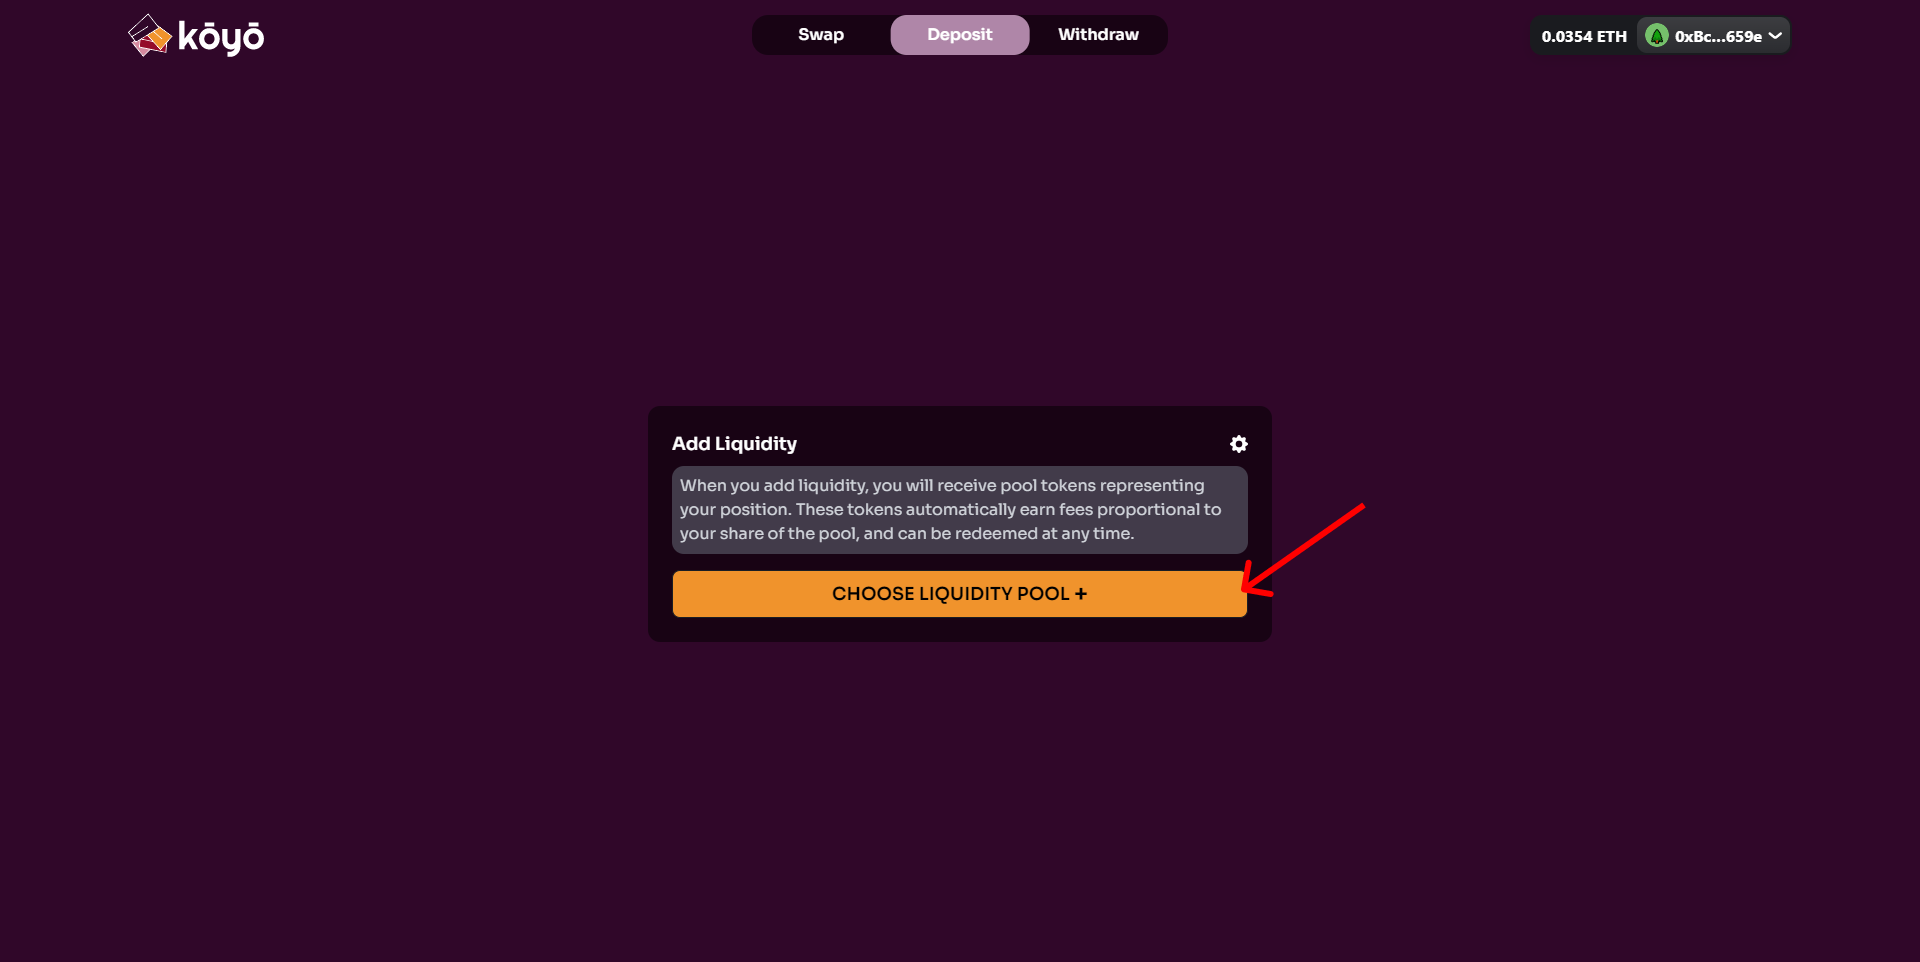
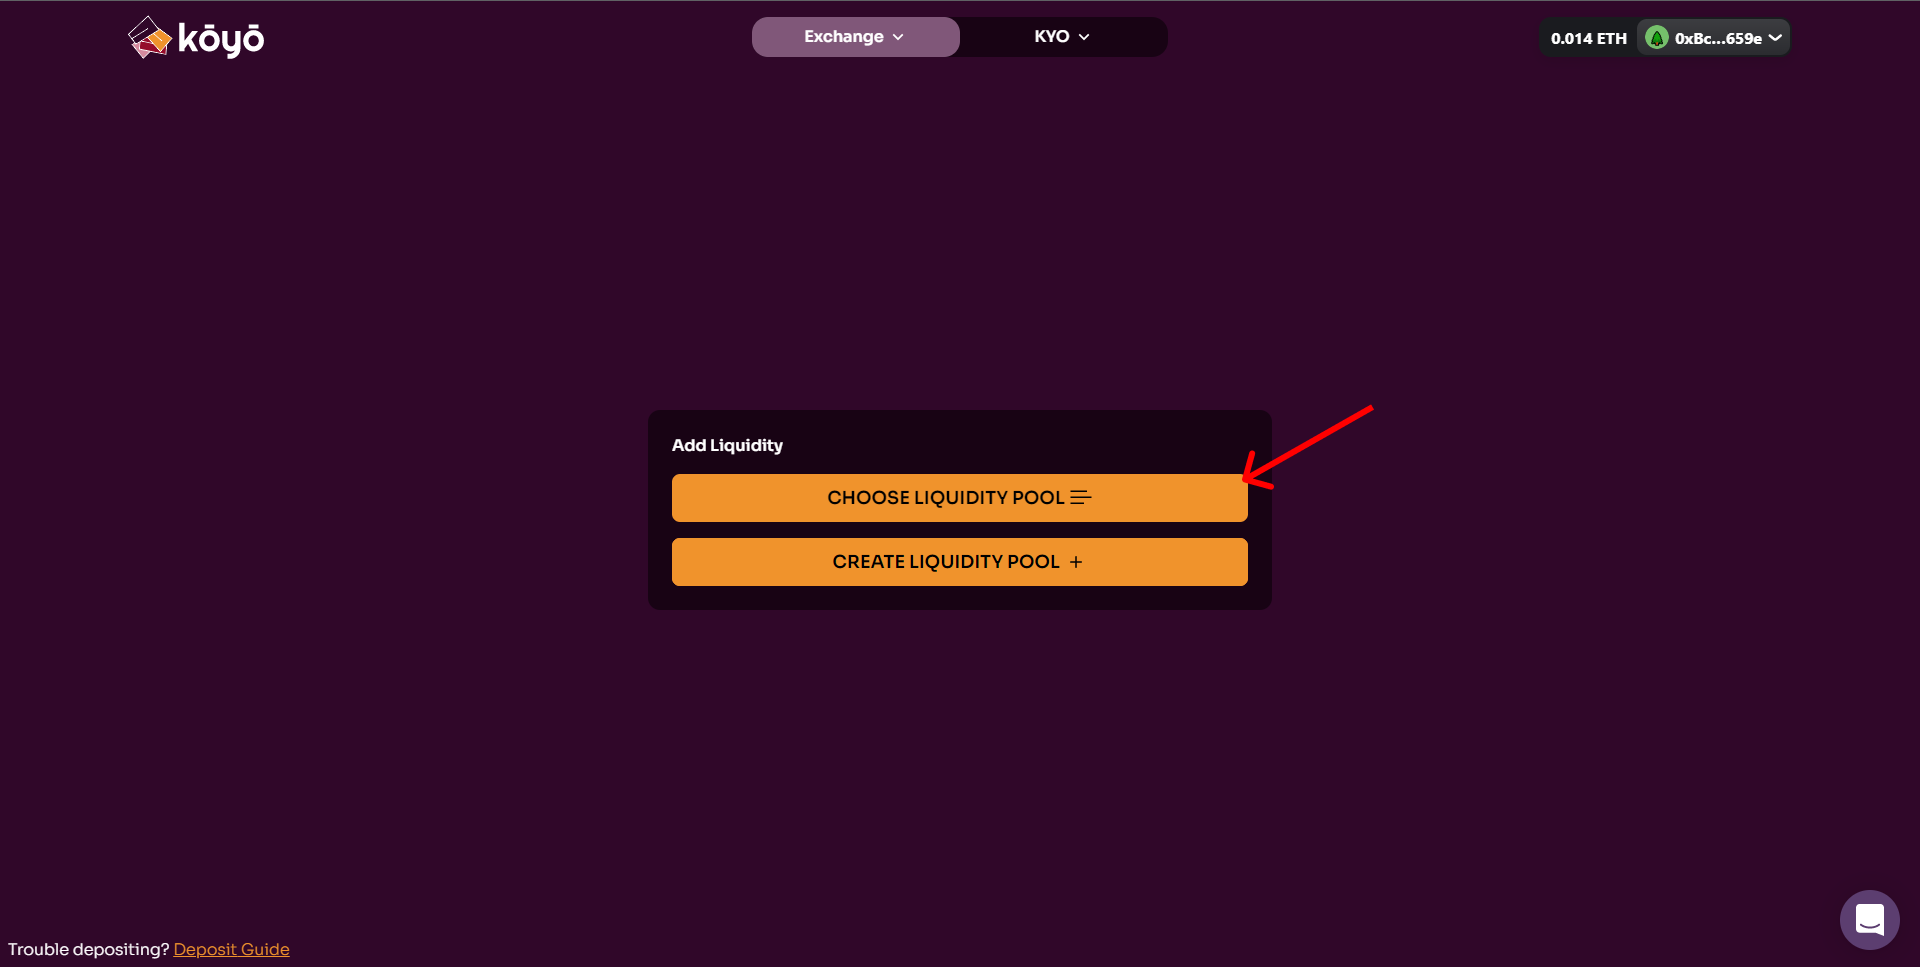
Corrections on farms and vote pages + added poolCretion

diff --git a/docs/guide/KYO/farms.md b/docs/guide/KYO/farms.md
@@ -6,7 +6,7 @@ sidebar_position: 1
 
 On farms page you'll be able to stake your LP tokens into gauges and earn rewards in return.
 
-_Your rewards will depend on the amount of votes that your gauge will recieve from the users._
+_Your rewards will depend on the amount of votes, that your gauge will recieve from the users._
 
 First you'll have to navigate to the actual farms page [koyo.finance/kyo/farms](https://koyo.finance/kyo/farms).
 
@@ -14,7 +14,7 @@ First you'll have to navigate to the actual farms page [koyo.finance/kyo/farms](
 
 ## Connect your wallet
 
-If your wallet is already connected, the "APPROVE - ..." or "Deposit LP tokens" button will be shown, so you can skip this and proceed to [Locking](#locking). Otherwise you will be presented with "Connect Wallet" button, which will allow you to connect your desired wallet to Kōyō Finance.
+If your wallet is already connected, the "APPROVE - _pool name_" or "Deposit LP tokens" button will be shown, so you can skip this and proceed to [Approving](#approving) or [Depositing](#depositing). Otherwise you will be presented with "Connect Wallet" button, which will allow you to connect your desired wallet to Kōyō Finance.
 
 When you choose a wallet, your wallet application will most likely open your wallet or account and ask for **confirmation to connect** to Kōyō Finance.
 
@@ -26,7 +26,7 @@ Second "Connect Wallet" button is always shown in **top right** of the page (des
 
 ## Approving
 
-To approve your LP tokens click on the "APPROVE - ..." button.
+To approve your LP tokens click on the "APPROVE - _pool name_" button.
 
 <img src="/img/guide/kyo/approveLPtokens.png" alt="Wallet poppup" width="450" />
 
@@ -38,7 +38,7 @@ To deposit your LP tokens click on the "DEPOSIT LP TOKENS" button.
 
 You'll be asked to confirm the transaction in you wallet.
 
-_Beware that you'll always deposit **ALL** of your LP tokens_
+_Beware that you'll always deposit **ALL** of your LP tokens._
 
 Once you've deposited your LP tokens, you should see your the "Claim" and "Withdraw LP tokens" buttons appear.
 

diff --git a/docs/guide/KYO/vote.md b/docs/guide/KYO/vote.md
@@ -26,17 +26,29 @@ You set the weight on the input field that has "0 %" as a place holder and a "MA
 
 <img src="/img/guide/kyo/voteWeight.png" alt="Set vote weight" width="800" />
 
+## Connect your wallet
+
+If your wallet is already connected, the "Submit vote -- _gauge name_" button will be shown, so you can skip this and proceed to [Submitting vote](#submitting-vote). Otherwise you will be presented with "Connect Wallet" button, which will allow you to connect your desired wallet to Kōyō Finance.
+
+When you choose a wallet, your wallet application will most likely open your wallet or account and ask for **confirmation to connect** to Kōyō Finance.
+
+To use Kōyō Finance, you have to be on **Boba Network**.
+
+<img src="/img/guide/swap/deposit-walletPoppup.png" alt="Wallet poppup" width="450" />
+
+Second "Connect Wallet" button is always shown in **top right** of the page (desktop) or in the **navigation** (mobile).
+
 ## Submitting vote
 
-To submit your vote t the gauge you just click on the "submit vote - _gauge name_" button.
+To submit your vote to the gauge, you just click on the "submit vote - _gauge name_" button.
 
 <img src="/img/guide/kyo/submitVote.png" alt="Submit Vote" width="800" />
 
 ## Claiming emissions
 
-Once the gauge you've voted for and also have deposited LP tokens into it, starts claiming emissions, you can claim them in the table above a gauge selection button.
+Once the gauge, you've voted for and also deposited your LP tokens into it, starts claiming emissions, you can claim them in the table above the gauge selection button.
 
-You can claim emissions that the gauge has claimed by pressing the claim button which has an amount of KYO claimable displayed on it.
+You can claim emissions that the gauge has claimed by pressing the claim button, which has an amount of claimable KYO displayed on it.
 
 <img src="/img/guide/kyo/claiming.png" alt="Claiming emissions" width="800" />
 

diff --git a/docs/guide/exchange/poolCreation.md b/docs/guide/exchange/poolCreation.md
@@ -1,0 +1,27 @@
+---
+id: poolCreation
+title: Pool Creation
+sidebar_position: 3
+---
+
+With the latest V2 updated of Kōyō Finance came the feature for our users to create liquidity pools.
+
+To create liquidity pool you first navigate to the _[koyo.finance/deposit](https://koyo.finance/deposit)_.
+
+To begin the process of creation, click on the "Create liquidity pool +" button.
+
+<img src="/img/guide/swap/poolCreation.png" alt="Pool creation page" width="500" />
+
+## Pool types
+
+When creating a pool you have 3 types of pools to choose from:
+
+-   Weighted pool, which allows you to have up to 8 tokens and each one can have a custom weight
+-   Oracle pool, which allows you to choose only 2 tokens, but still allows you to set custom weihts
+-   Stable pool, which allows you to have up to 8 tokens, but not costum weghts for each token
+
+<img src="/img/guide/swap/poolTypes.png" alt="Pool creation page" width="500" />
+
+## Choosing tokens
+
+<img src="/img/guide/swap/poolCreation-tokenModal.png" alt="Pool creation page" width="500" />

diff --git a/docs/guide/exchange/withdraw.md b/docs/guide/exchange/withdraw.md
@@ -1,7 +1,7 @@
 ---
 id: withdraw
 title: Withdraw
-sidebar_position: 3
+sidebar_position: 4
 ---
 
 When you want to get your deposited assets back, you can always withdraw them.
